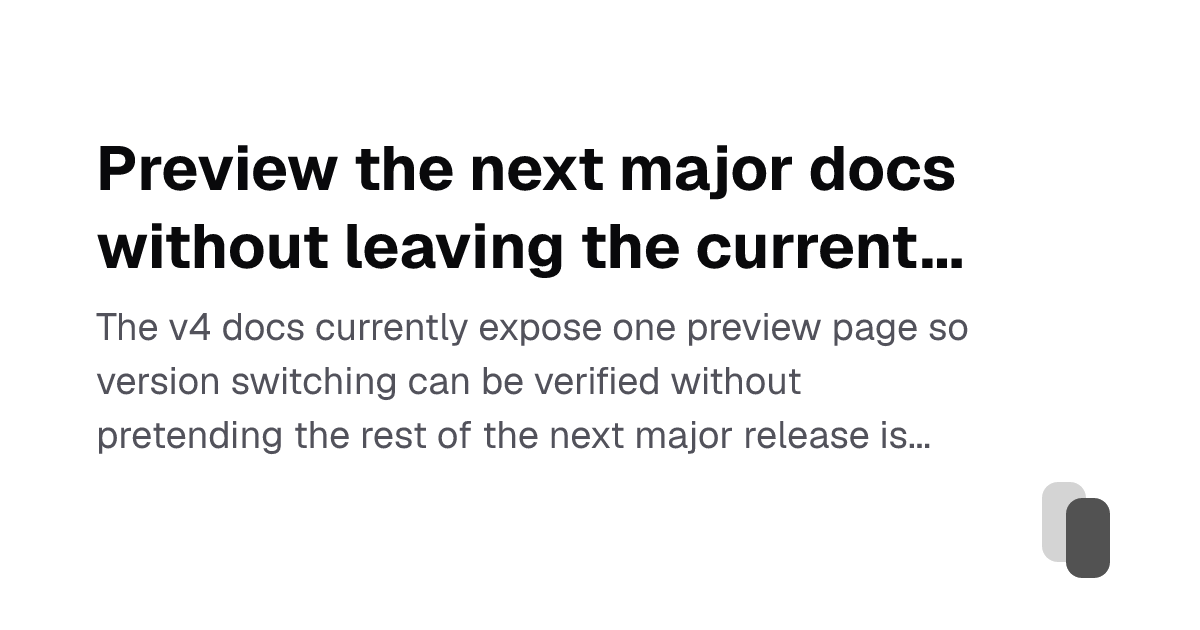
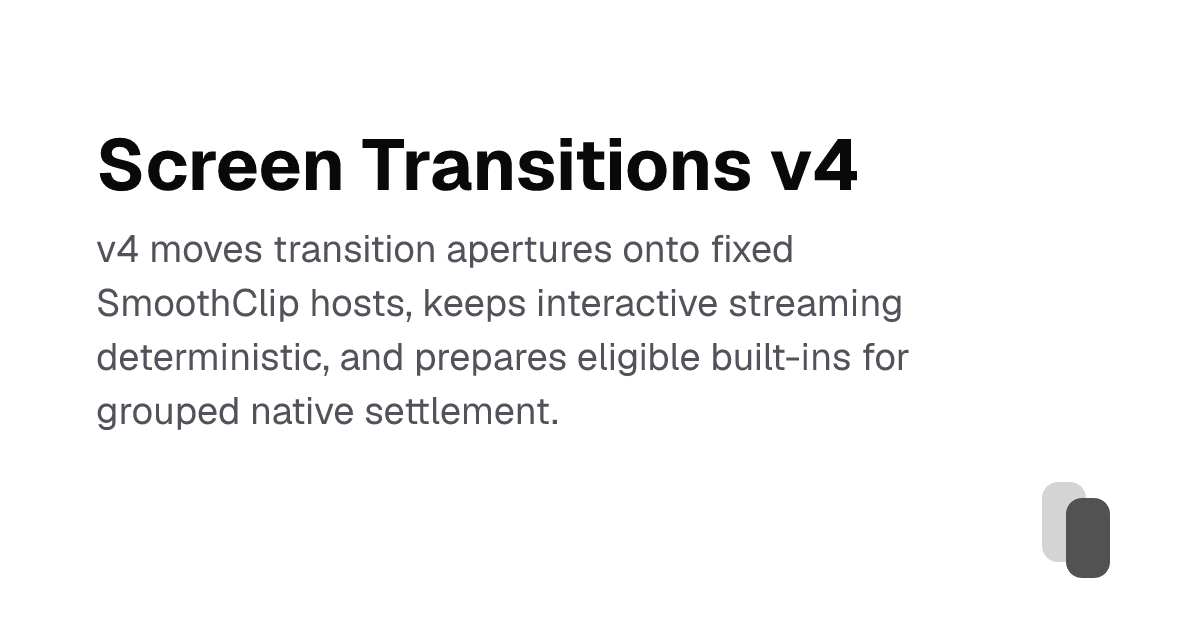
docs: document v4 clip presentations

Changed region(s): [[0.0617, 0.3619, 0.8017, 0.7238], [0.0617, 0.2111, 0.8017, 0.3317]]

diff --git a/packages/docs/src/routeTree.gen.ts b/packages/docs/src/routeTree.gen.ts
@@ -43,6 +43,7 @@ import { Route as ApiCreateTransitionAwareComponentRouteImport } from './routes/
 import { Route as ApiCreateBoundaryComponentRouteImport } from './routes/api.create-boundary-component'
 import { Route as IndexRouteImport } from './routes/index'
 import { Route as V4NextIndexRouteImport } from './routes/v4-next.index'
+import { Route as V4NextSlugRouteImport } from './routes/v4-next.$slug'
 import { Route as RecipesModalRouteImport } from './routes/recipes.modal'
 
 const UpdatingTo37Route = UpdatingTo37RouteImport.update({
@@ -217,6 +218,11 @@ const V4NextIndexRoute = V4NextIndexRouteImport.update({
   path: '/v4-next/',
   getParentRoute: () => rootRouteImport,
 } as any)
+const V4NextSlugRoute = V4NextSlugRouteImport.update({
+  id: '/v4-next/$slug',
+  path: '/v4-next/$slug',
+  getParentRoute: () => rootRouteImport,
+} as any)
 const RecipesModalRoute = RecipesModalRouteImport.update({
   id: '/recipes/modal',
   path: '/recipes/modal',
@@ -259,6 +265,7 @@ export interface FileRoutesByFullPath {
   '/updating-to-3-7': typeof UpdatingTo37Route
   '/recipes/modal': typeof RecipesModalRoute
   '/v4-next/': typeof V4NextIndexRoute
+  '/v4-next/$slug': typeof V4NextSlugRoute
 }
 export interface FileRoutesByTo {
   '/': typeof IndexRoute
@@ -296,6 +303,7 @@ export interface FileRoutesByTo {
   '/updating-to-3-7': typeof UpdatingTo37Route
   '/recipes/modal': typeof RecipesModalRoute
   '/v4-next': typeof V4NextIndexRoute
+  '/v4-next/$slug': typeof V4NextSlugRoute
 }
 export interface FileRoutesById {
   __root__: typeof rootRouteImport
@@ -334,6 +342,7 @@ export interface FileRoutesById {
   '/updating-to-3-7': typeof UpdatingTo37Route
   '/recipes/modal': typeof RecipesModalRoute
   '/v4-next/': typeof V4NextIndexRoute
+  '/v4-next/$slug': typeof V4NextSlugRoute
 }
 export interface FileRouteTypes {
   fileRoutesByFullPath: FileRoutesByFullPath
@@ -373,6 +382,7 @@ export interface FileRouteTypes {
     | '/updating-to-3-7'
     | '/recipes/modal'
     | '/v4-next/'
+    | '/v4-next/$slug'
   fileRoutesByTo: FileRoutesByTo
   to:
     | '/'
@@ -410,6 +420,7 @@ export interface FileRouteTypes {
     | '/updating-to-3-7'
     | '/recipes/modal'
     | '/v4-next'
+    | '/v4-next/$slug'
   id:
     | '__root__'
     | '/'
@@ -447,6 +458,7 @@ export interface FileRouteTypes {
     | '/updating-to-3-7'
     | '/recipes/modal'
     | '/v4-next/'
+    | '/v4-next/$slug'
   fileRoutesById: FileRoutesById
 }
 export interface RootRouteChildren {
@@ -485,6 +497,7 @@ export interface RootRouteChildren {
   UpdatingTo37Route: typeof UpdatingTo37Route
   RecipesModalRoute: typeof RecipesModalRoute
   V4NextIndexRoute: typeof V4NextIndexRoute
+  V4NextSlugRoute: typeof V4NextSlugRoute
 }
 
 declare module '@tanstack/react-router' {
@@ -727,6 +740,13 @@ declare module '@tanstack/react-router' {
       preLoaderRoute: typeof V4NextIndexRouteImport
       parentRoute: typeof rootRouteImport
     }
+    '/v4-next/$slug': {
+      id: '/v4-next/$slug'
+      path: '/v4-next/$slug'
+      fullPath: '/v4-next/$slug'
+      preLoaderRoute: typeof V4NextSlugRouteImport
+      parentRoute: typeof rootRouteImport
+    }
     '/recipes/modal': {
       id: '/recipes/modal'
       path: '/recipes/modal'
@@ -773,6 +793,7 @@ const rootRouteChildren: RootRouteChildren = {
   UpdatingTo37Route: UpdatingTo37Route,
   RecipesModalRoute: RecipesModalRoute,
   V4NextIndexRoute: V4NextIndexRoute,
+  V4NextSlugRoute: V4NextSlugRoute,
 }
 export const routeTree = rootRouteImport
   ._addFileChildren(rootRouteChildren)

diff --git a/packages/docs/src/routes/v4-next.$slug.tsx b/packages/docs/src/routes/v4-next.$slug.tsx
@@ -1,0 +1,15 @@
+import { createFileRoute } from "@tanstack/react-router";
+
+import { MarkdownBody } from "../components/docs/markdown-doc-page";
+import { createDocHead, getDocByVersionAndSlug } from "../lib/docs";
+
+export const Route = createFileRoute("/v4-next/$slug")({
+	head: ({ params }) =>
+		createDocHead(getDocByVersionAndSlug("v4-next", params.slug)),
+	component: function V4DocRouteComponent() {
+		const { slug } = Route.useParams();
+		const doc = getDocByVersionAndSlug("v4-next", slug);
+
+		return <MarkdownBody versionId="v4-next" slug={doc.slug} />;
+	},
+});

diff --git a/packages/docs/src/components/docs/version-dropdown.tsx b/packages/docs/src/components/docs/version-dropdown.tsx
@@ -70,7 +70,7 @@ export function VersionDropdown({
 	const containerRef = useRef<HTMLDivElement>(null);
 	const [open, setOpen] = useState(false);
 	const currentVersion = docVersions.find((version) => version.id === value);
-	const publicVersions = docVersions.filter((version) => version.id === "v3-4");
+	const publicVersions = docVersions;
 
 	useOutsideClose(containerRef, open, () => setOpen(false));
 

diff --git a/packages/react-native-screen-transitions/CHANGELOG.md b/packages/react-native-screen-transitions/CHANGELOG.md
@@ -1,5 +1,29 @@
 # Changelog
 
+## 4.0.0 (unreleased)
+
+Version 4 coordinates geometric transitions through `react-native-smooth-clip-view` 0.3 while retaining a streamed correctness path for plans that are not yet eligible for native ownership.
+
+### Added
+
+* Added whole-object `clip` presentation slots with per-corner radii, circular or continuous curves, independent content translation, and centered uniform content scale.
+* Added `Transition.ClipView` and `Transition.Boundary.ClipView`, including fixed maximum-size hosts whose native aperture owns hit testing, accessibility, events, and forwarded refs.
+* Added one route-keyed SmoothClip coordinator for atomic batches, interruption snapshots, group settlement, and completion-barrier participation.
+
+### Changed
+
+* Replaced navigation-mask geometry with SmoothClip apertures while preserving `navigationMaskEnabled` and both reserved navigation mask IDs.
+* Reimplemented deprecated `Transition.MaskedView` as a geometric compatibility adapter. Alpha and background-alpha masks warn and render unclipped.
+* Treats `maskSizingMode` as a deprecated visual no-op.
+* Keeps native promotion behind an internal, hard-disabled gate until the physical-device continuity and frame-time gates are met. Streaming remains the release baseline.
+
+### Breaking Changes
+
+* Requires Fabric, React Native 0.86 or newer, React 19.2 or newer, Reanimated 4.5 or newer, Worklets 0.10 or newer, iOS 16.4, and Android API 33.
+* Requires `react-native-smooth-clip-view ^0.3.0` as a peer dependency.
+* Removes `@react-native-masked-view/masked-view`; legacy masks with non-geometric semantics are no longer emulated.
+* `Transition.ClipView` requires a finite positive `maximumSize`, and that value owns the native host's width and height.
+
 ## [3.9.0](https://github.com/eds2002/react-native-screen-transitions/compare/v3.8.0...v3.9.0) (2026-07-21)
 
 v3.9 focuses on more predictable bounds transitions, a native-style navigation zoom, and experimental live-content handoff.

diff --git a/README.md b/README.md
@@ -12,6 +12,7 @@ Customizable screen transitions for React Native. Build gesture-driven, shared e
 - Shared element and fullscreen navigation zoom transitions through the Bounds API.
 - Snap-point sheets with gesture-aware `ScrollView` and `FlatList` coordination.
 - Transition slots for content, backdrop, surface, and custom tagged elements.
+- First-class fixed-footprint clip presentations with `Transition.ClipView` and `Transition.Boundary.ClipView`.
 - Built-in presets for common modal, card, and shared-transition patterns.
 - Blank stack, native stack, and Expo Router integration.
 - Written in TypeScript.
@@ -28,6 +29,7 @@ Install peer dependencies:
 
 ```bash
 npm install react-native-reanimated react-native-gesture-handler \
+  react-native-worklets react-native-smooth-clip-view \
   @react-navigation/native @react-navigation/native-stack \
   @react-navigation/elements react-native-screens \
   react-native-safe-area-context
@@ -37,11 +39,12 @@ See [the documentation site](https://screen-transitions.esjr.org).
 
 ## Support
 
-v3 (current) supports Reanimated v3, Reanimated v4, and React Native Gesture Handler v2.
+v4 is Fabric-only and requires React Native 0.86+, React 19.2+, Reanimated 4.5+, Worklets 0.10+, SmoothClip 0.3, iOS 16.4+, and Android API 33+. React Native Web is not supported because SmoothClip is native-only. v3 remains the compatibility line for older applications.
 
-| Line | Reanimated | React Native Gesture Handler |
-| ---- | ---------- | ---------------------------- |
-| v3 (current) | v3, v4 | v2 |
+| Line | Architecture | Reanimated | SmoothClip |
+| ---- | ------------ | ---------- | ---------- |
+| v4 | Fabric | >=4.5 | ^0.3.0 |
+| v3 | Paper / Fabric | v3, v4 | not required |
 
 ## Author
 

diff --git a/packages/react-native-screen-transitions/README.md b/packages/react-native-screen-transitions/README.md
@@ -12,6 +12,7 @@ Customizable screen transitions for React Native. Build gesture-driven, shared e
 - Shared element and fullscreen navigation zoom transitions through the Bounds API.
 - Snap-point sheets with gesture-aware `ScrollView` and `FlatList` coordination.
 - Transition slots for content, backdrop, surface, and custom tagged elements.
+- First-class fixed-footprint clip presentations with `Transition.ClipView` and `Transition.Boundary.ClipView`.
 - Built-in presets for common modal, card, and shared-transition patterns.
 - Blank stack, native stack, and Expo Router integration.
 - Written in TypeScript.
@@ -28,6 +29,7 @@ Install peer dependencies:
 
 ```bash
 npm install react-native-reanimated react-native-gesture-handler \
+  react-native-worklets react-native-smooth-clip-view \
   @react-navigation/native @react-navigation/native-stack \
   @react-navigation/elements react-native-screens \
   react-native-safe-area-context
@@ -37,11 +39,12 @@ See [the documentation site](https://screen-transitions.esjr.org).
 
 ## Support
 
-v3 (current) supports Reanimated v3, Reanimated v4, and React Native Gesture Handler v2.
+v4 is Fabric-only and requires React Native 0.86+, React 19.2+, Reanimated 4.5+, Worklets 0.10+, SmoothClip 0.3, iOS 16.4+, and Android API 33+. React Native Web is not supported because SmoothClip is native-only. v3 remains the compatibility line for older applications.
 
-| Line | Reanimated | React Native Gesture Handler |
-| ---- | ---------- | ---------------------------- |
-| v3 (current) | v3, v4 | v2 |
+| Line | Architecture | Reanimated | SmoothClip |
+| ---- | ------------ | ---------- | ---------- |
+| v4 | Fabric | >=4.5 | ^0.3.0 |
+| v3 | Paper / Fabric | v3, v4 | not required |
 
 ## Author
 
